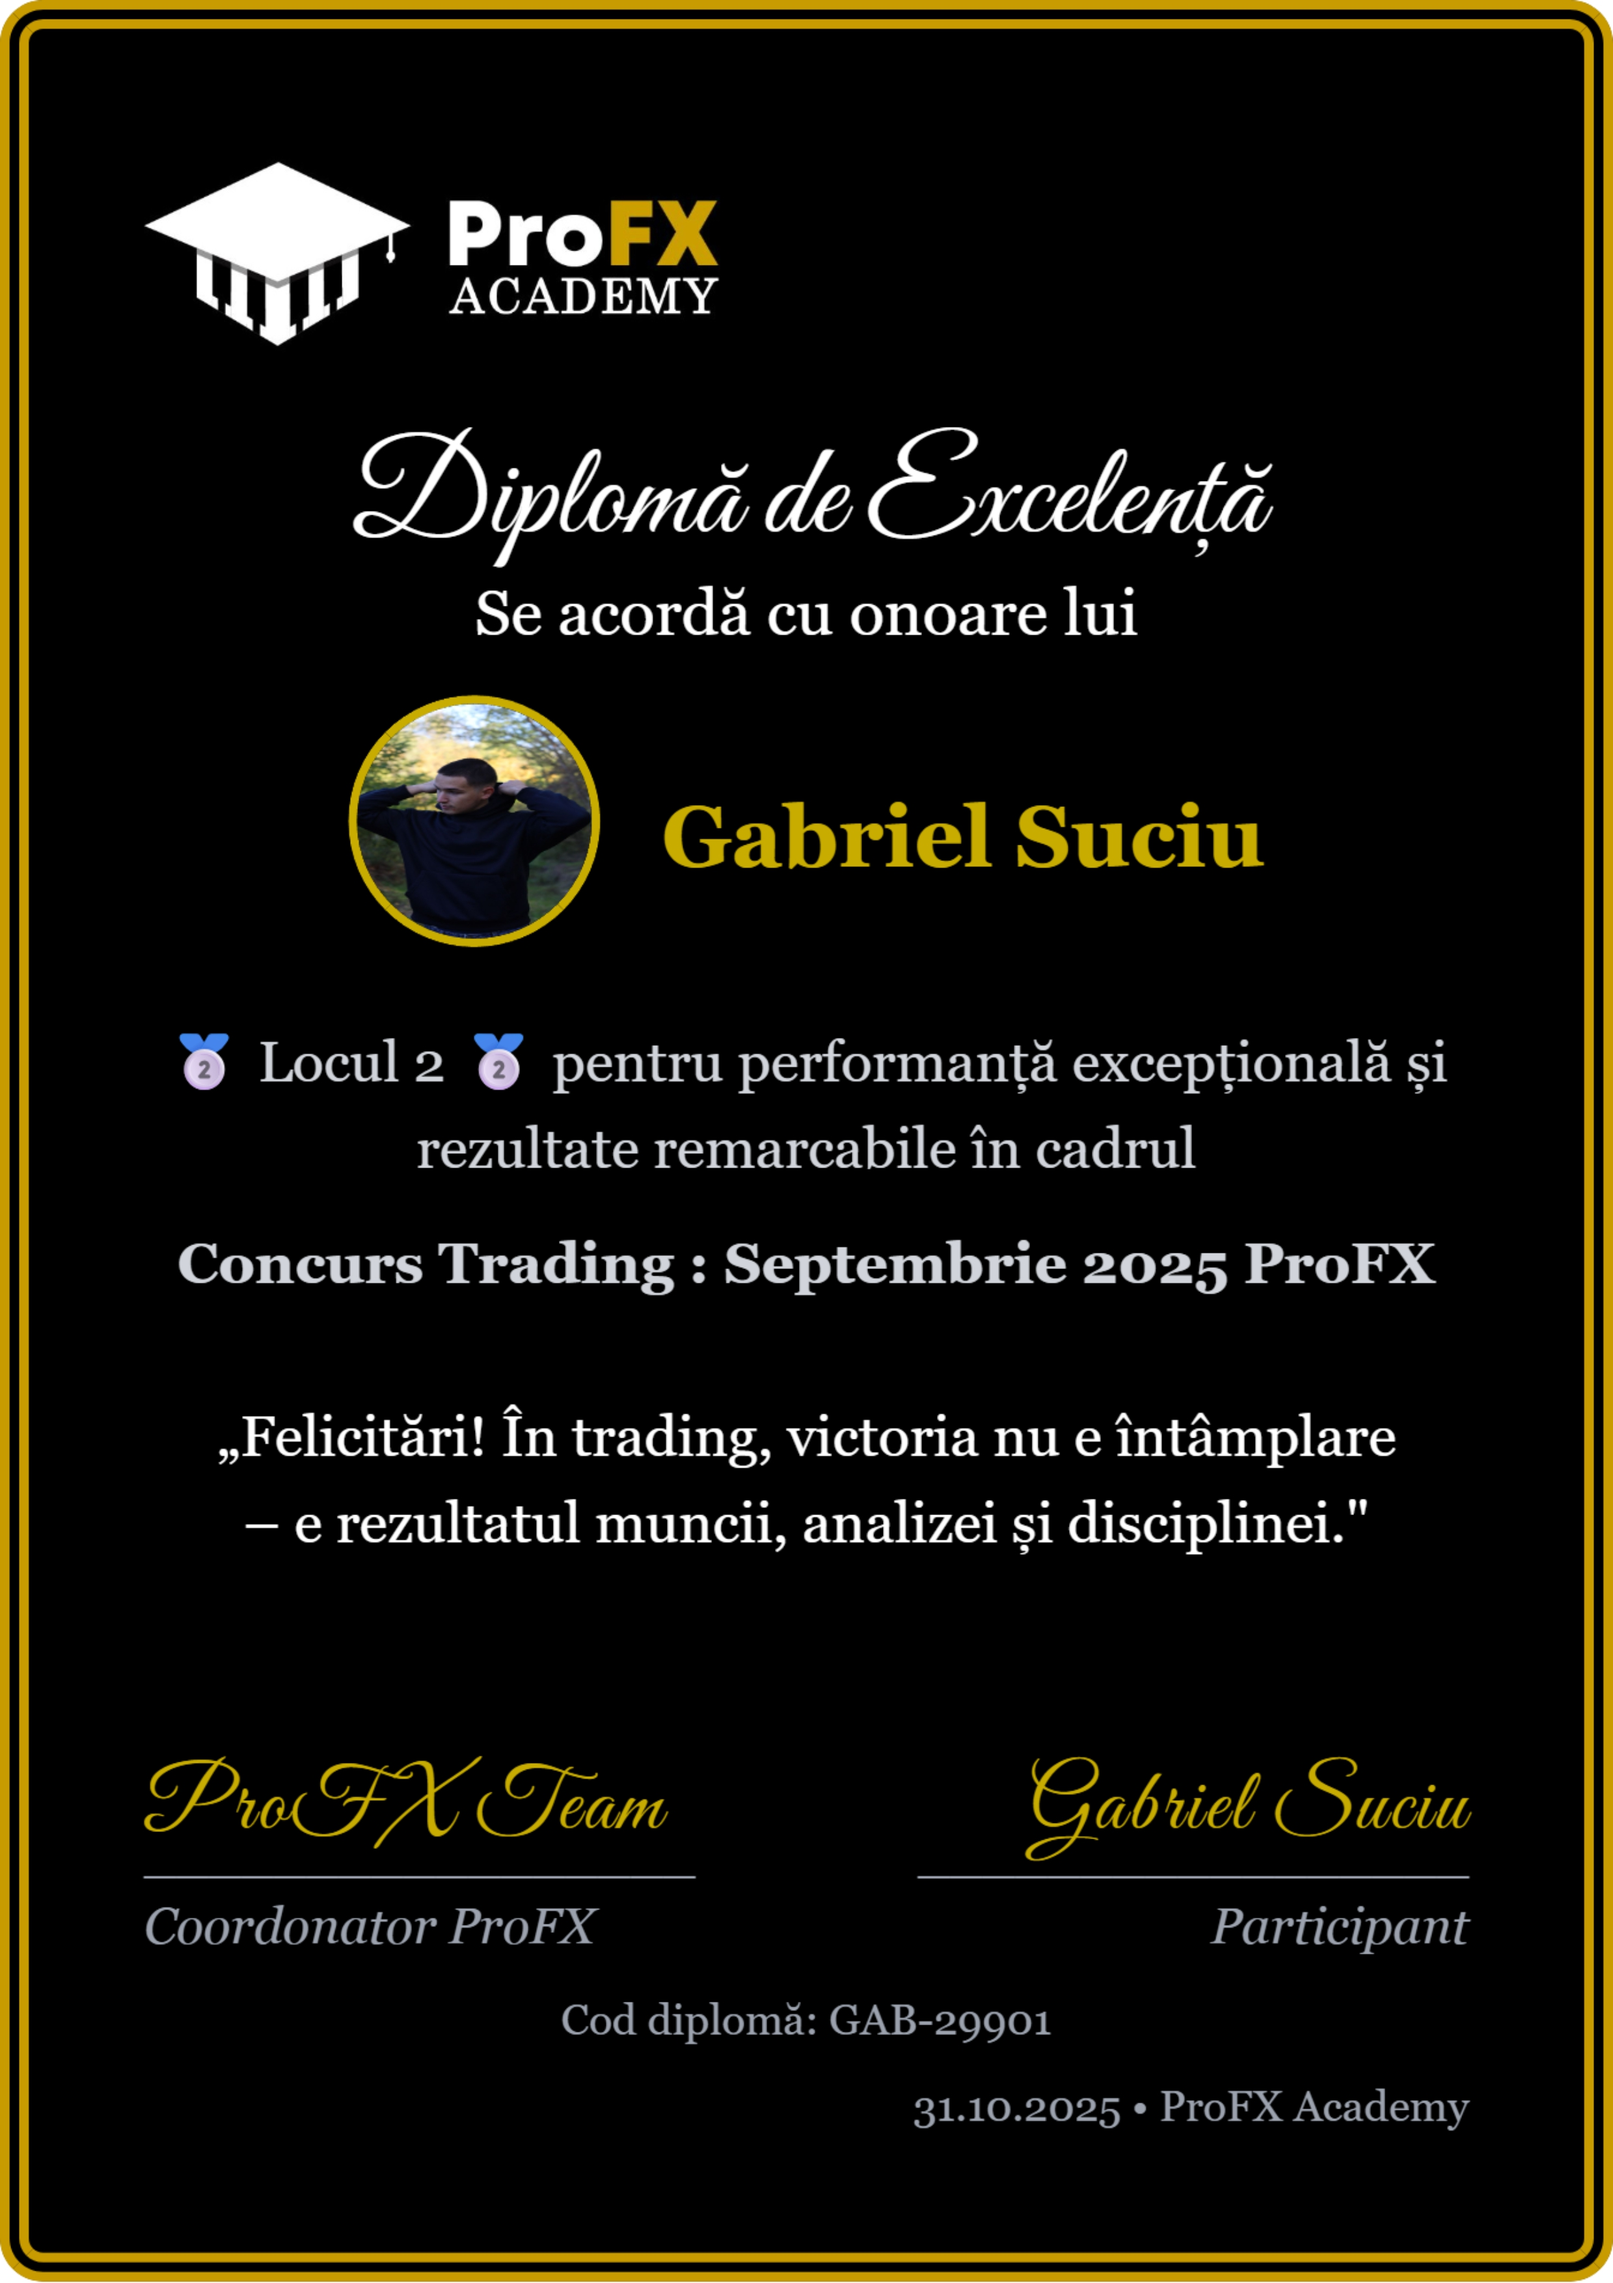
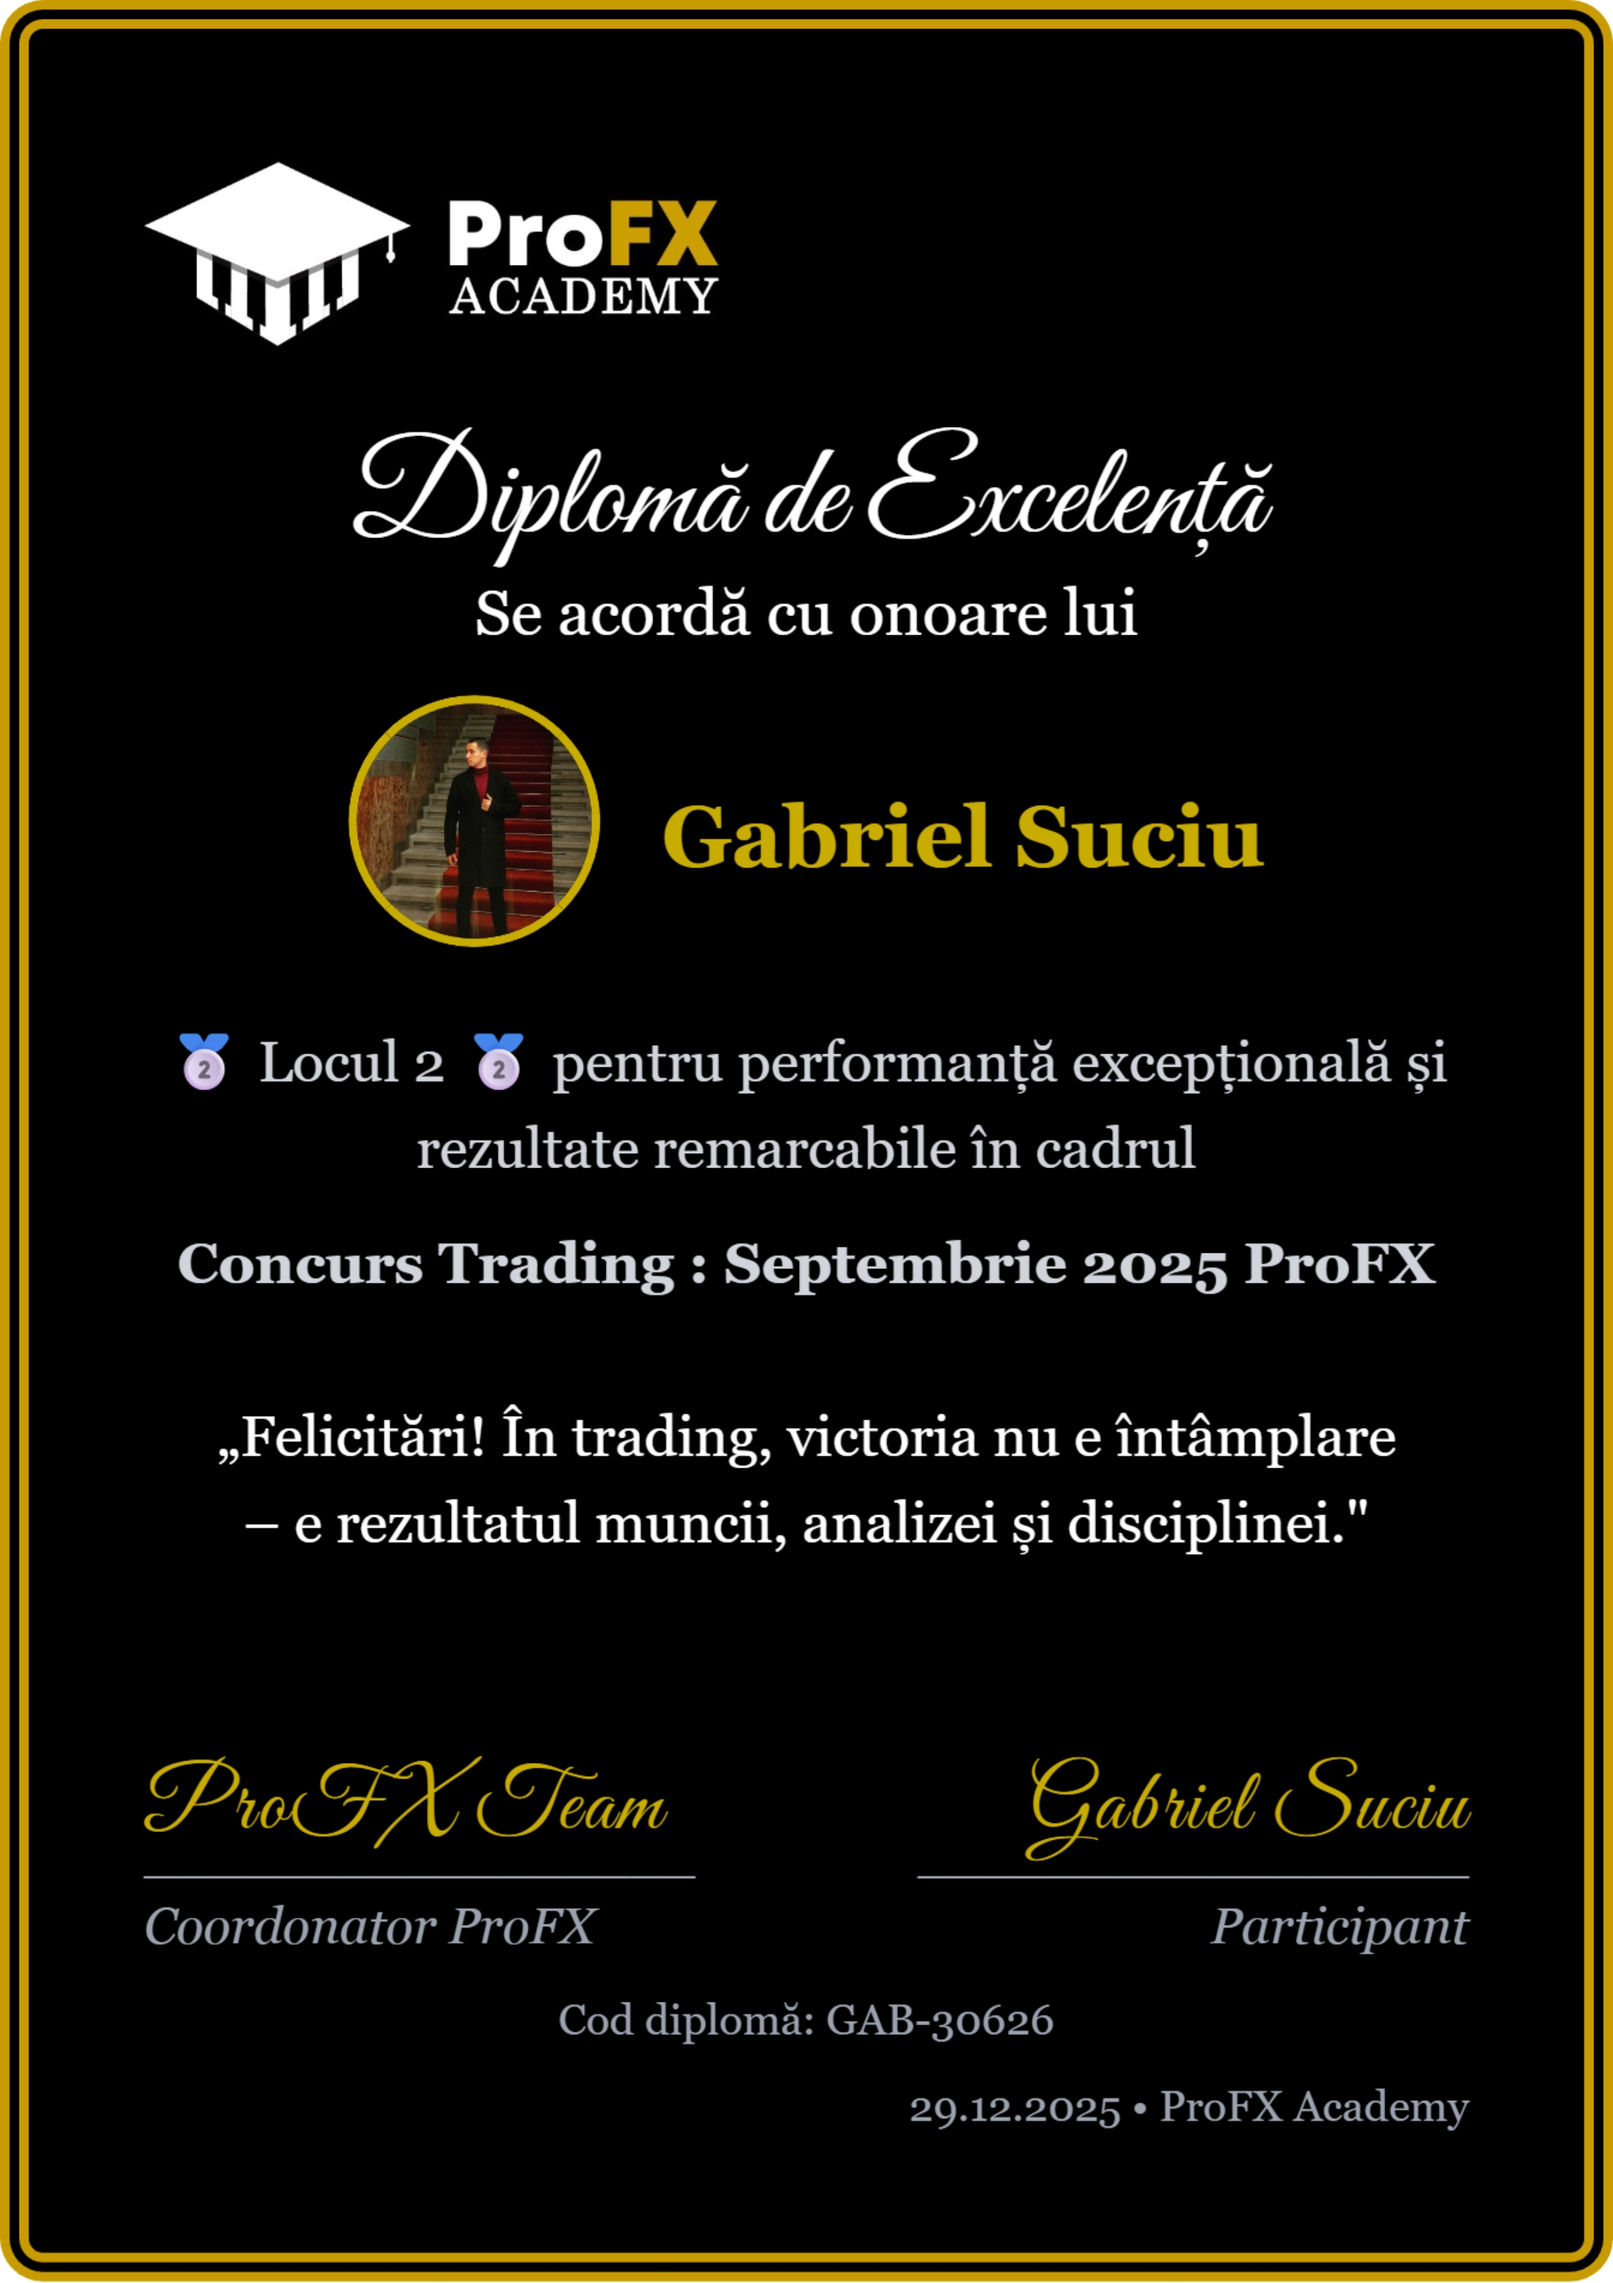
added diplomas for december

Changed region(s): [[0.2174, 0.3107, 0.3727, 0.435], [0.3417, 0.87, 0.6523, 0.9322]]

diff --git a/src/components/ui/Carusel.jsx b/src/components/ui/Carusel.jsx
@@ -34,6 +34,11 @@ import noiembrie2 from "../../utils/Noiembrie 2.jpg";
 import noiembrie3 from "../../utils/Noiembrie 3.jpg";
 import noiembrie4 from "../../utils/Noiembrie 4.jpg";
 import noiembrie5 from "../../utils/Noiembrie 5.jpg";
+import decembrie1 from "../../utils/Decembrie 1.jpg";
+import decembrie2 from "../../utils/Decembrie 2.jpg";
+import decembrie3 from "../../utils/Decembrie 3.jpg";
+import decembrie4 from "../../utils/Decembrie 4.jpg";
+import decembrie5 from "../../utils/Decembrie 5.jpg";
 
 const hallOfFame = [
   { img: aprilie1, name: "Ciprian Penisoara", place: 1, month: "Aprilie", year: 2025 },
@@ -67,6 +72,11 @@ const hallOfFame = [
   { img: noiembrie3, name: "Erik Cirstea", place: 3, month: "Noiembrie", year: 2025 },
   { img: noiembrie4, name: "Lavinia Sabau", place: 4, month: "Noiembrie", year: 2025 },
   { img: noiembrie5, name: "Mocanu Adrian Ionel", place: 5, month: "Noiembrie", year: 2025 },
+  { img: decembrie1, name: "Ion Andrei", place: 1, month: "Decembrie", year: 2025 },
+  { img: decembrie2, name: "Solomonean Lucian", place: 2, month: "Decembrie", year: 2025 },
+  { img: decembrie3, name: "Ilie Mihai", place: 3, month: "Decembrie", year: 2025 },
+  { img: decembrie4, name: "Lavinia Sabau", place: 4, month: "Decembrie", year: 2025 },
+  { img: decembrie5, name: "Cotoc Adrian", place: 5, month: "Decembrie", year: 2025 },
 ];
 
 const HallOfFameCarousel = () => {

diff --git a/src/translations/program.js b/src/translations/program.js
@@ -53,7 +53,7 @@ export const programTranslations = {
       daysOfWeek: ["LUNI", "MARȚI", "MIERCURI", "JOI", "VINERI", "SÂMBĂTĂ", "DUMINICĂ"],
       
       // Session names
-      sessionAsiaWithMihai: "Sesiune Asia cu Mihai (Revine în Ianuarie)",
+      sessionAsiaWithMihai: "Sesiune Asia cu Mihai",
       sessionLondonWithFlavius: "Sesiune Londra cu Flavius",
       sessionNewYorkWithFlavius: "Sesiune New York cu Flavius",
       macroAnalysisWithJohn: "Analiza macro saptamanala cu John",
@@ -115,7 +115,7 @@ export const programTranslations = {
       daysOfWeek: ["MONDAY", "TUESDAY", "WEDNESDAY", "THURSDAY", "FRIDAY", "SATURDAY", "SUNDAY"],
       
       // Session names
-      sessionAsiaWithMihai: "Asia Session with Mihai (Returns in January)",
+      sessionAsiaWithMihai: "Asia Session with Mihai",
       sessionLondonWithFlavius: "London Session with Flavius",
       sessionNewYorkWithFlavius: "New York Session with Flavius",
       macroAnalysisWithJohn: "Weekly Macro Analysis with John",
